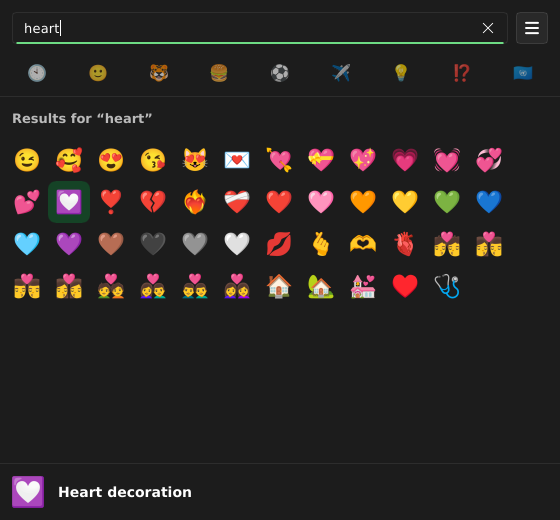
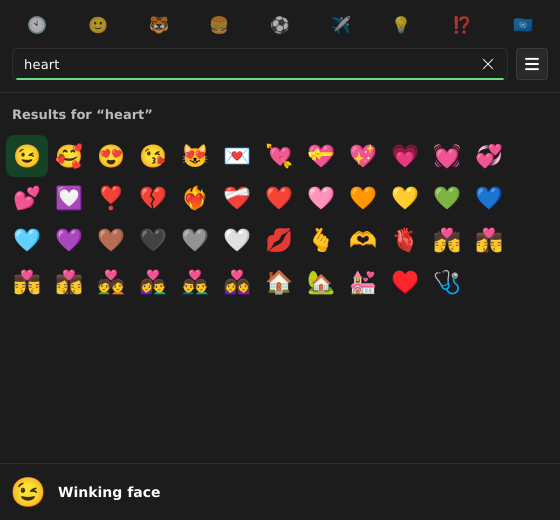
Customize keyboard shortcut Defaults to CTRL + ALT + .

diff --git a/src/app.rs b/src/app.rs
@@ -37,6 +37,51 @@ const CATEGORY_PX: f32 = 20.0;
 const PREVIEW_PX: f32 = 36.0;
 const CHOSEN_PX: f32 = 24.0;
 
+/// "Ctrl+Alt+." from a key press, or None for a lone modifier or a key the shortcut parser does not know.
+/// `mods` is [ctrl, alt, shift, meta]; at least one is required (a bare key would steal normal typing).
+fn shortcut_from_key(text: &str, mods: [bool; 4]) -> Option<String> {
+    let mut chars = text.chars();
+    let c = chars.next().filter(|_| chars.next().is_none())?;
+    let key = match c {
+        ' ' => "space".to_string(),
+        '\t' => "Tab".into(),
+        '\r' | '\n' => "Return".into(),
+        // Slint reports F1..F12 as private-use characters.
+        '\u{f704}'..='\u{f70f}' => format!("F{}", c as u32 - 0xf704 + 1),
+        c if c.is_ascii_alphanumeric() => c.to_ascii_uppercase().to_string(),
+        '.' | ',' | '-' => c.to_string(),
+        _ => return None,
+    };
+    let mut parts: Vec<&str> = MODIFIER_NAMES
+        .iter()
+        .zip(mods)
+        .filter(|(_, on)| *on)
+        .map(|(n, _)| *n)
+        .collect();
+    if parts.is_empty() {
+        return None;
+    }
+    parts.push(&key);
+    Some(parts.join("+"))
+}
+
+const MODIFIER_NAMES: [&str; 4] = ["Ctrl", "Alt", "Shift", "Super"];
+
+/// Live label while recording: "Ctrl + Alt + …", or the prompt when nothing is held.
+fn held_text(mods: [bool; 4]) -> String {
+    let held: Vec<&str> = MODIFIER_NAMES
+        .iter()
+        .zip(mods)
+        .filter(|(_, on)| *on)
+        .map(|(n, _)| *n)
+        .collect();
+    if held.is_empty() {
+        "Press keys… (Esc cancels)".into()
+    } else {
+        format!("{} + …", held.join(" + "))
+    }
+}
+
 fn debug(message: impl FnOnce() -> String) {
     static ON: std::sync::OnceLock<bool> = std::sync::OnceLock::new();
     if *ON.get_or_init(|| std::env::var_os("FASTMOJI_DEBUG").is_some()) {
@@ -299,7 +344,7 @@ struct App {
     exit_polls: StdCell<u32>,
     exit_read_at: StdCell<Option<u32>>,
     exit_timer: Timer,
-    hotkey_started: StdCell<bool>,
+    hotkey: RefCell<Option<x11::Hotkey>>,
     shown_at: StdCell<Option<Instant>>,
     last_time: StdCell<u32>,
     ignore_scroll_until: StdCell<Instant>,
@@ -777,13 +822,13 @@ impl App {
     }
 
     fn start_hotkey(&self) {
-        if !self.x11 || self.hotkey_started.get() {
+        if !self.x11 || self.hotkey.borrow().is_some() {
             return;
         }
         let shortcut = self.st.borrow().settings.shortcut.clone();
         match x11::spawn_hotkey(&shortcut, |time| post(move |app| app.toggle(time))) {
-            Ok(()) => {
-                self.hotkey_started.set(true);
+            Ok(hotkey) => {
+                *self.hotkey.borrow_mut() = Some(hotkey);
                 self.ui().set_shortcut_error("".into());
             }
             Err(e) => {
@@ -792,6 +837,31 @@ impl App {
                     .set_shortcut_error(format!("Shortcut unavailable: {e}").into());
             }
         }
+    }
+
+    /// Switch the global shortcut; on failure the previous one is grabbed again and stays in the settings.
+    fn change_shortcut(&self, text: &str) {
+        let text = text.trim();
+        if self.x11 && x11::parse_shortcut(text).is_none() {
+            self.ui()
+                .set_shortcut_error(format!("Cannot parse {text:?}. Example: Ctrl+Alt+.").into());
+            return;
+        }
+        let old = std::mem::replace(&mut self.st.borrow_mut().settings.shortcut, text.to_string());
+        if let Some(hotkey) = self.hotkey.borrow_mut().take() {
+            hotkey.release();
+        }
+        if self.resident() {
+            self.start_hotkey();
+        }
+        let error = self.ui().get_shortcut_error();
+        if !error.is_empty() {
+            self.st.borrow_mut().settings.shortcut = old;
+            self.start_hotkey();
+            self.ui().set_shortcut_error(error);
+        }
+        self.st.borrow().settings.save();
+        self.sync();
     }
 
     fn accept_selection(&self, shift: bool) {
@@ -806,7 +876,10 @@ impl App {
     // ---- window lifecycle -----------------------------------------------------------------
 
     fn toggle(&self, time: u32) {
-        if self.ui().window().is_visible() {
+        // The grab swallows the current shortcut while recording: pressing it again means "keep it".
+        if self.ui().get_recording_shortcut() {
+            self.ui().set_recording_shortcut(false);
+        } else if self.ui().window().is_visible() {
             self.hide()
         } else {
             self.open(time)
@@ -850,6 +923,7 @@ impl App {
     fn hide(&self) {
         debug(|| "hide".into());
         let ui = self.ui();
+        ui.set_recording_shortcut(false);
         let window = ui.window();
         if window.is_visible() {
             let size = window.size().to_logical(window.scale_factor());
@@ -983,7 +1057,7 @@ pub fn run(show: bool, command: &str) {
         exit_polls: StdCell::new(0),
         exit_read_at: StdCell::new(None),
         exit_timer: Timer::default(),
-        hotkey_started: StdCell::new(false),
+        hotkey: RefCell::new(None),
         shown_at: StdCell::new(None),
         last_time: StdCell::new(0),
         ignore_scroll_until: StdCell::new(Instant::now()),
@@ -1052,6 +1126,26 @@ pub fn run(show: bool, command: &str) {
         }
         app.sync();
     });
+    ui.on_record_key({
+        let app = app.clone();
+        move |text, ctrl, alt, shift, meta| {
+            let mut text = text.to_string();
+            if app.x11
+                && let Some(c) = text.chars().next().filter(|_| text.chars().count() == 1)
+                && let Some(base) = x11::base_key(c)
+            {
+                text = base.to_string();
+            }
+            match shortcut_from_key(&text, [ctrl, alt, shift, meta]) {
+                Some(shortcut) => {
+                    app.change_shortcut(&shortcut);
+                    true
+                }
+                None => false,
+            }
+        }
+    });
+    ui.on_held_text(|ctrl, alt, shift, meta| held_text([ctrl, alt, shift, meta]).into());
     ui.on_quit(|| {
         let _ = slint::quit_event_loop();
     });
@@ -1102,6 +1196,20 @@ pub fn run(show: bool, command: &str) {
 
 #[cfg(test)]
 mod tests {
+    #[test]
+    fn records_shortcuts() {
+        use super::shortcut_from_key as key;
+        assert_eq!(key(".", [true, true, false, false]).as_deref(), Some("Ctrl+Alt+."));
+        assert_eq!(key("e", [true, false, true, false]).as_deref(), Some("Ctrl+Shift+E"));
+        assert_eq!(
+            key("\u{f708}", [false, false, false, true]).as_deref(),
+            Some("Super+F5")
+        );
+        assert_eq!(super::held_text([true, true, false, false]), "Ctrl + Alt + …");
+        assert_eq!(key("a", [false; 4]), None, "needs a modifier");
+        assert_eq!(key("\u{11}", [true, false, false, false]), None, "lone modifier");
+    }
+
     use super::*;
 
     const SEC: Duration = Duration::from_secs(1);

diff --git a/src/x11.rs b/src/x11.rs
@@ -93,9 +93,35 @@ fn keycodes(conn: &impl Connection, keysyms: &[u32]) -> Result<Vec<u8>> {
         .collect()
 }
 
+/// The unshifted character on the physical key that produces `c` in the current layout (`{` -> `7` on layouts
+/// where AltGr+7 gives `{`; Ctrl+Alt is AltGr there). Lets the recorder name keys independently of Ctrl/Alt/Shift.
+pub fn base_key(c: char) -> Option<char> {
+    let (conn, _) = x11rb::connect(None).ok()?;
+    let setup = conn.setup();
+    let (min, max) = (setup.min_keycode, setup.max_keycode);
+    let map = conn.get_keyboard_mapping(min, max - min + 1).ok()?.reply().ok()?;
+    let per = map.keysyms_per_keycode as usize;
+    let keysym = c as u32;
+    let first = map.keysyms.chunks(per).find(|k| k.contains(&keysym))?[0];
+    char::from_u32(first).filter(char::is_ascii_graphic)
+}
+
+/// A grabbed shortcut. `release` frees the key combination; the idle listener thread stays blocked on its socket.
+pub struct Hotkey {
+    conn: Arc<RustConnection>,
+    root: u32,
+}
+
+impl Hotkey {
+    pub fn release(&self) {
+        let _ = self.conn.ungrab_key(0, self.root, ModMask::ANY);
+        let _ = self.conn.flush();
+    }
+}
+
 /// Grab the shortcut on its own thread (blocking on the X socket, no polling) and call
 /// `on_press` with the event timestamp. Returns an error text if the combination is taken.
-pub fn spawn_hotkey(shortcut: &str, on_press: impl Fn(u32) + Send + 'static) -> std::result::Result<(), String> {
+pub fn spawn_hotkey(shortcut: &str, on_press: impl Fn(u32) + Send + 'static) -> std::result::Result<Hotkey, String> {
     let (mods, keysym) = parse_shortcut(shortcut).ok_or_else(|| format!("cannot parse shortcut {shortcut:?}"))?;
     let (conn, screen) = x11rb::connect(None).map_err(|e| e.to_string())?;
     let root = conn.setup().roots[screen].root;
@@ -112,17 +138,19 @@ pub fn spawn_hotkey(shortcut: &str, on_press: impl Fn(u32) + Send + 'static) -> 
             .map_err(|e| e.to_string())?;
         cookie
             .check()
-            .map_err(|e| format!("another application owns {shortcut}: {e}"))?;
+            .map_err(|_| format!("{shortcut} is already used by another application."))?;
     }
     conn.flush().map_err(|e| e.to_string())?;
+    let conn = Arc::new(conn);
+    let listener = conn.clone();
     std::thread::spawn(move || {
-        while let Ok(event) = conn.wait_for_event() {
+        while let Ok(event) = listener.wait_for_event() {
             if let Event::KeyPress(ev) = event {
                 on_press(ev.time);
             }
         }
     });
-    Ok(())
+    Ok(Hotkey { conn, root })
 }
 
 /// Terminals that paste with Ctrl+Shift+V (plain Ctrl+V reaches the shell as a control character).

diff --git a/src/settings.rs b/src/settings.rs
@@ -22,7 +22,7 @@ pub struct Settings {
     /// Keep the process running when the picker is closed (needed for the global shortcut).
     /// When false, FastMoji exits after closing, as soon as nothing needs the clipboard any more.
     pub keep_resident: bool,
-    /// e.g. "Ctrl+Alt+E". Applied at start-up; restart to change.
+    /// e.g. "Ctrl+Alt+.". Also editable in Preferences.
     pub shortcut: String,
     pub width: u32,
     pub height: u32,
@@ -36,7 +36,7 @@ impl Default for Settings {
             emoji_size: 28,
             auto_paste: true,
             keep_resident: true,
-            shortcut: "Ctrl+Alt+E".into(),
+            shortcut: "Ctrl+Alt+.".into(),
             width: 515,
             height: 500,
         }

diff --git a/dev/drive.py b/dev/drive.py
@@ -26,7 +26,7 @@ def find_window(klass="fastmoji", min_w=200):
                 return g['Absolute upper-left X'], g['Absolute upper-left Y'], g['Width'], g['Height']
 def shot(path, win):
     x, y, w, h = win
-    subprocess.run(['ffmpeg', '-loglevel', 'error', '-y', '-f', 'x11grab', '-video_size', f'{w}x{h}',
+    subprocess.run(['ffmpeg', '-loglevel', 'error', '-y', '-f', 'x11grab', '-draw_mouse', '0', '-video_size', f'{w}x{h}',
                     '-i', f':0.0+{x},{y}', '-frames:v', '1', path])
 
 def find_window_by_title(fragment, min_w=200):

diff --git a/README.md b/README.md
@@ -22,7 +22,7 @@ FastMoji is inspired by [Emote](https://github.com/tom-james-watson/Emote) by To
 - Keyboard first: arrows (also while typing), `Enter` copy and paste, `Shift+Enter` build a multi-emoji selection, `Ctrl+F` search, `Ctrl+Tab` categories (or `Up` from the top row to reach the category bar, then `Left`/`Right`, `Down` to go back), `Esc` close
 - Click copies and pastes, right click adds to the selection
 - Skin tone, emoji size and automatic paste preferences
-- Global shortcut (default `Ctrl+Alt+E`) on X11
+- Global shortcut (default `Ctrl+Alt+.`) on X11
 - Optional: **do not stay in memory** (see below)
 - Follows the desktop's light/dark theme
 
@@ -82,7 +82,7 @@ flatpak run io.github.evandro777.FastMoji.Devel
 `~/.local/share/FastMoji/settings.toml` (written by the Preferences panel):
 
 ```toml
-shortcut = "Ctrl+Alt+E"   # X11 global shortcut, applied at start (e.g. "Ctrl+Alt+period", "Super+F2", "Ctrl+Alt+Tab"; keys: letters, digits, F1-F12, Tab, Return, space, period, comma, minus)
+shortcut = "Ctrl+Alt+."   # X11 global shortcut, also set in Preferences by clicking the button and pressing the keys (e.g. "Ctrl+Alt+E", "Super+F2", "Ctrl+Alt+Tab"; keys: letters, digits, F1-F12, Tab, Return, space, period, comma, minus)
 keep_resident = true      # see below
 auto_paste = true
 skin_tone = 0             # 0 = default, 1..5
@@ -93,7 +93,7 @@ emoji_size = 28           # 20, 24, 28, 32 or 36
 
 By default FastMoji stays resident, so it opens instantly and the global shortcut works. In *Preferences → Keep FastMoji in memory* (or `keep_resident = false`) you can turn that off:
 
-- FastMoji exits as soon as the picker is closed, so **the global shortcut no longer works**. Open it with your own desktop shortcut that runs `fastmoji` (for example Super+Y in Cinnamon's keyboard settings).
+- FastMoji exits as soon as the picker is closed, so **the global shortcut no longer works**. Open it with your own desktop shortcut that runs `fastmoji` (for example Super+Y in Cinnamon's keyboard settings). This is still very fast: you can skip the built-in shortcut entirely, bind `fastmoji` in your desktop environment's keyboard settings and leave "Keep FastMoji in memory" off, so nothing stays in RAM between uses.
 - After you pick an emoji and it is pasted, FastMoji exits at once. The clipboard then belongs to nobody, so the emoji stays available only if a clipboard manager (CopyQ, ...) keeps it. If nothing was pasted (automatic paste off), FastMoji waits for *your* paste: it exits shortly after another application reads the clipboard (clipboard managers reading it in the first second are ignored), as soon as the clipboard is replaced, or after 5 minutes.
 - On Wayland the setting is locked on, because the clipboard needs the process.
 

diff --git a/AGENTS.md b/AGENTS.md
@@ -106,4 +106,4 @@ python3 dev/lat.py y "*" <pid> 12   # open latency + RSS
 
 ## Open items
 
-Flatpak build verification; in-app shortcut recorder (the shortcut is edited in `settings.toml` and needs a restart); autostart (Background portal); About dialog; Wayland probe; first real run of the Flatpak CI workflow (untested until pushed); the owner's hand-written Flathub submission.
+Flatpak build verification; autostart (Background portal); About dialog; Wayland probe; first real run of the Flatpak CI workflow (untested until pushed); the owner's hand-written Flathub submission.
